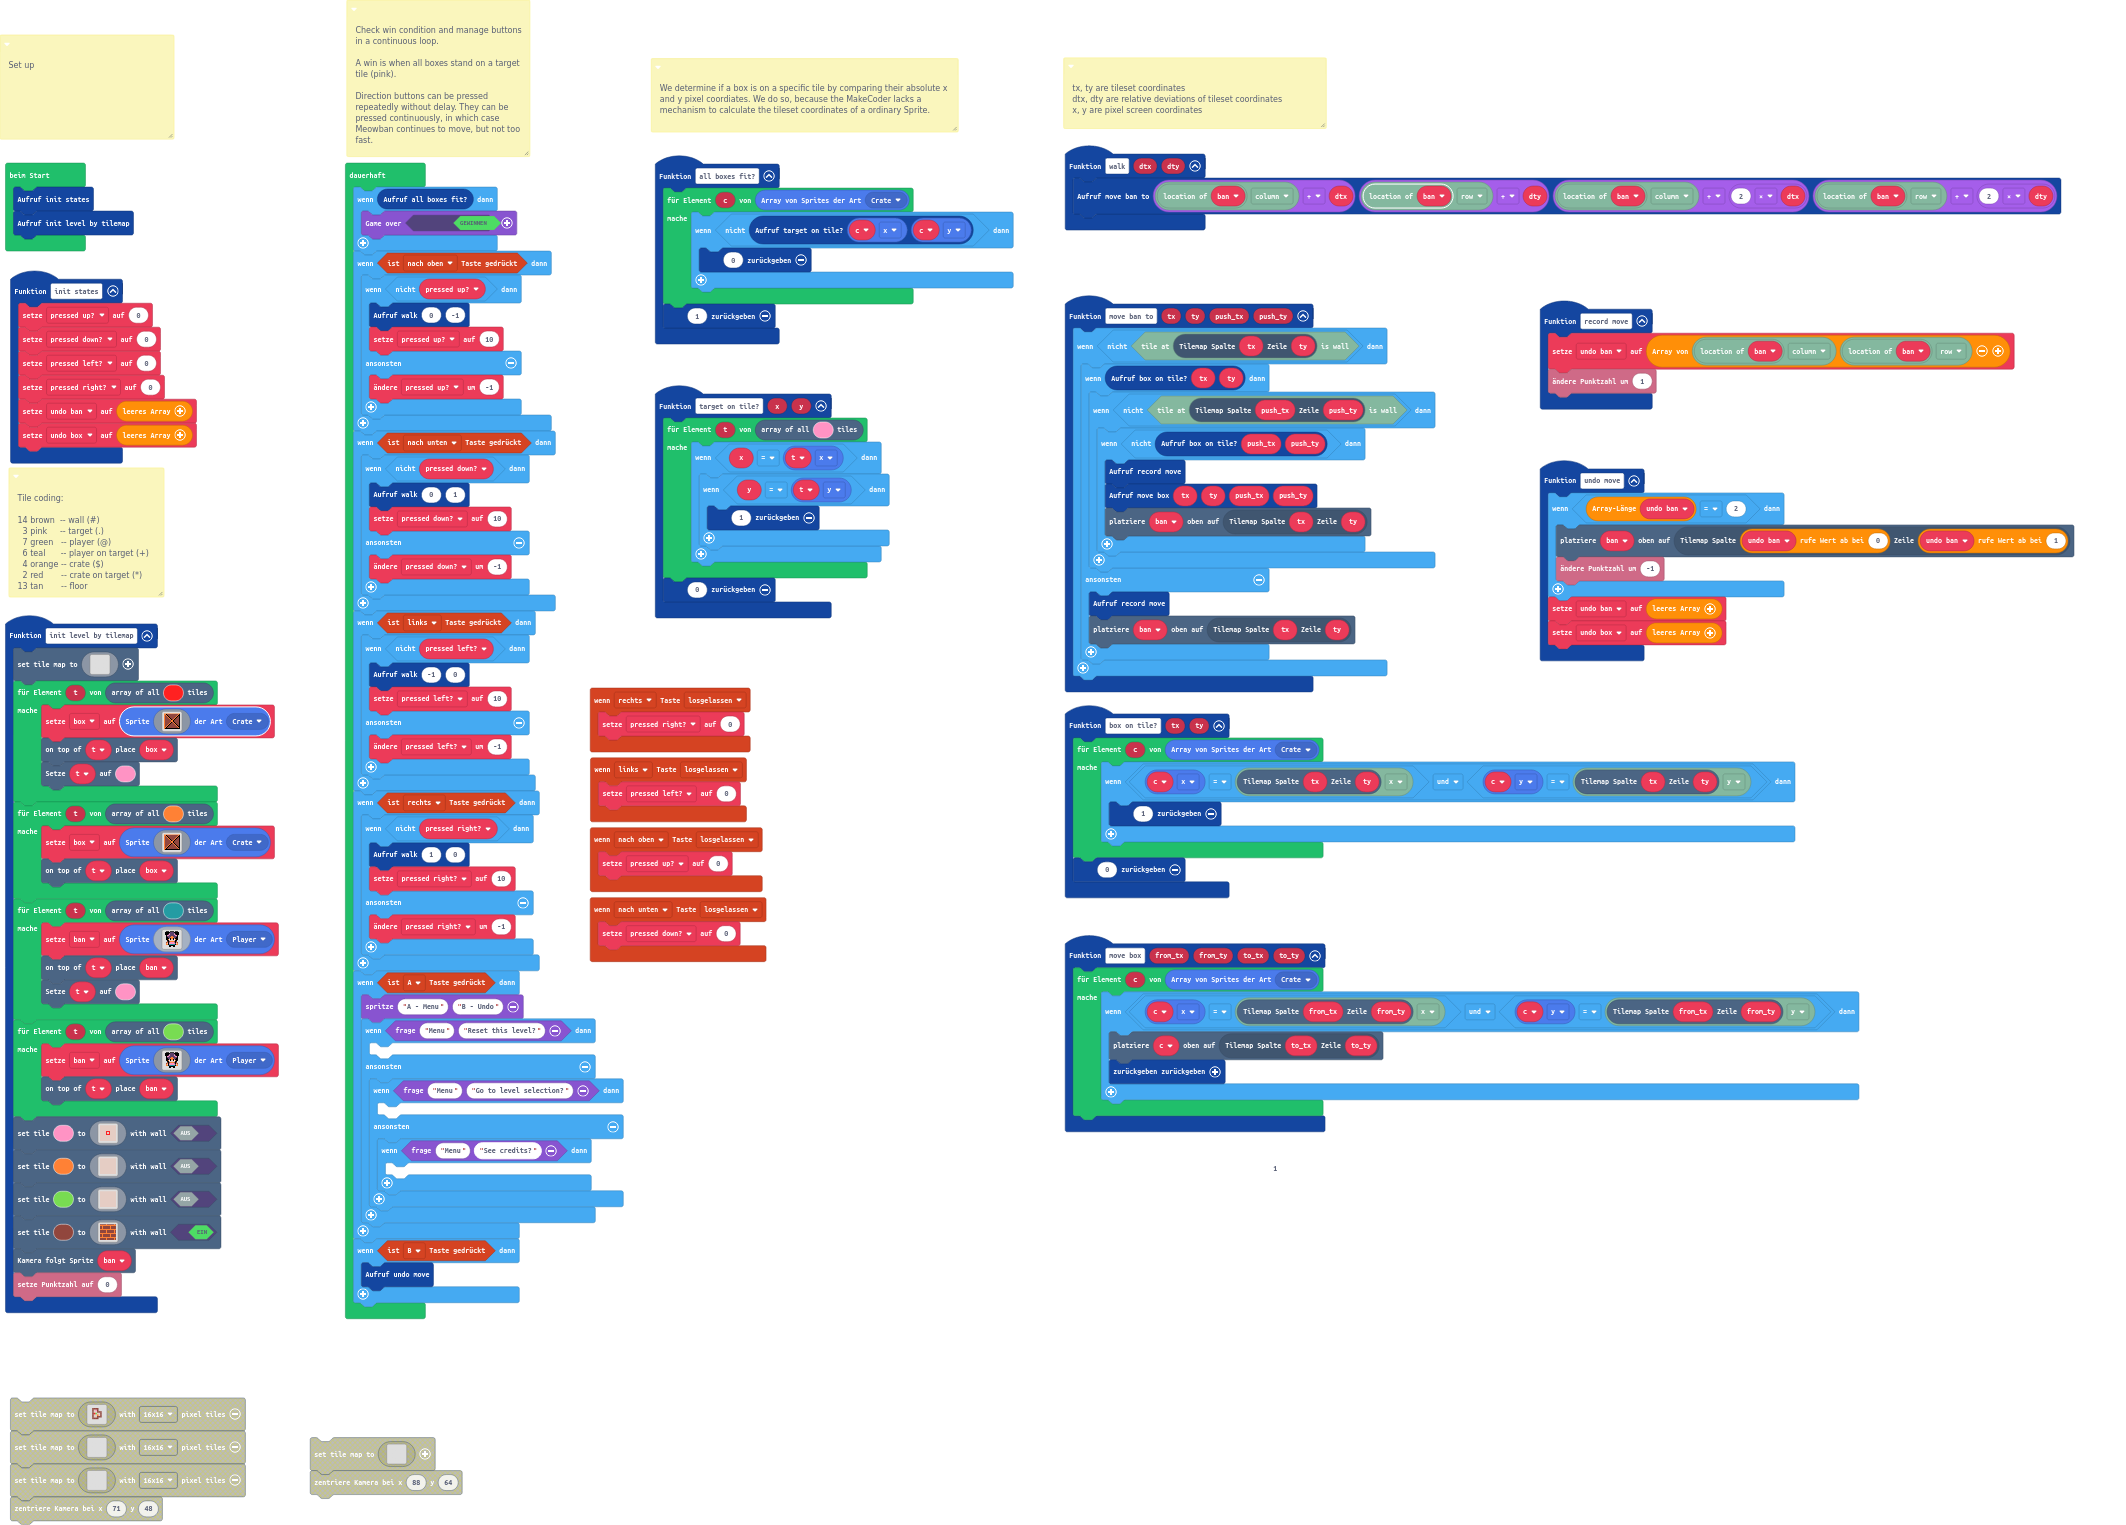
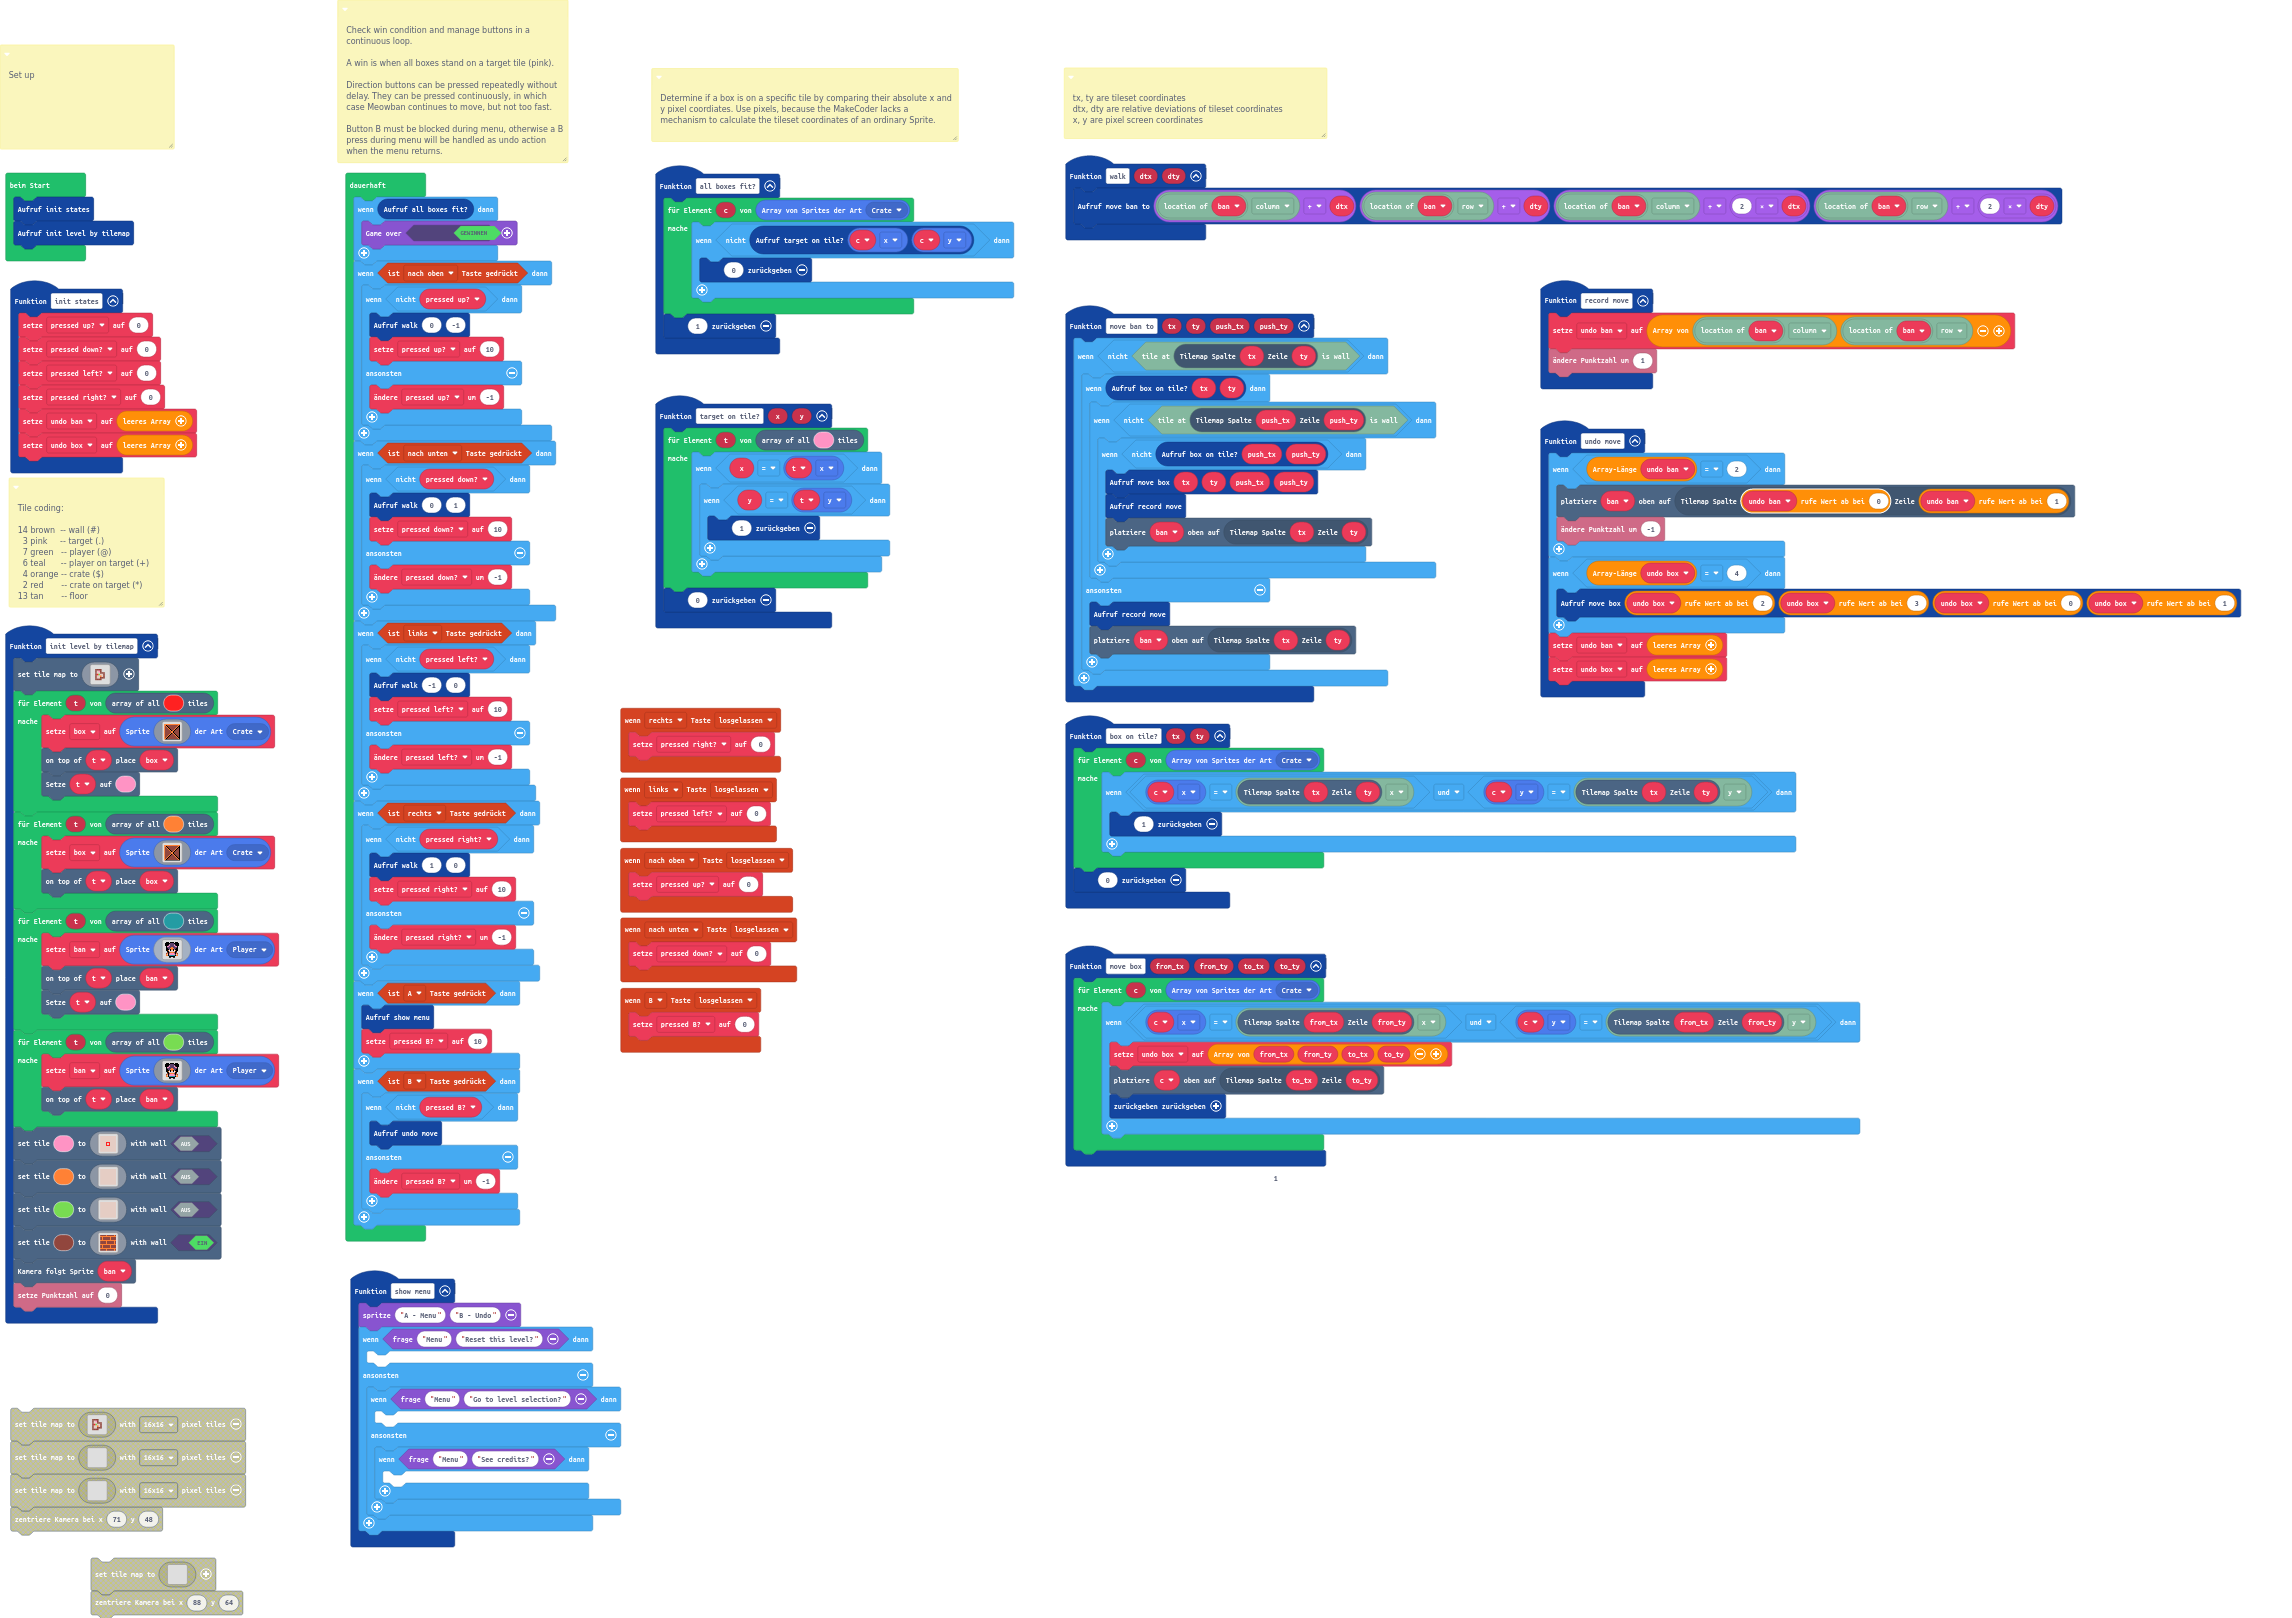
Undo and menu working, but MakeCode messed up the inactive level maps

diff --git a/main.ts b/main.ts
@@ -2,10 +2,19 @@ namespace SpriteKind {
     export const Crate = SpriteKind.create()
 }
 /**
+ * Check win condition and manage buttons in a continuous loop.
+ * 
+ * A win is when all boxes stand on a target tile (pink).
+ * 
+ * Direction buttons can be pressed repeatedly without delay. They can be pressed continuously, in which case Meowban continues to move, but not too fast.
+ * 
+ * Button B must be blocked during menu, otherwise a B press during menu will be handled as undo action when the menu returns.
+ */
+/**
  * Set up
  */
 /**
- * We determine if a box is on a specific tile by comparing their absolute x and y pixel coordiates. We do so, because the MakeCoder lacks a mechanism to calculate the tileset coordinates of a ordinary Sprite.
+ * Determine if a box is on a specific tile by comparing their absolute x and y pixel coordiates. Use pixels, because the MakeCoder lacks a mechanism to calculate the tileset coordinates of an ordinary Sprite.
  */
 /**
  * tx, ty are tileset coordinates
@@ -45,6 +54,20 @@ function init_states () {
     undo_ban = []
     undo_box = []
 }
+function show_menu () {
+    game.splash("A - Menu", "B - Undo")
+    if (game.ask("Menu", "Reset this level?")) {
+    	
+    } else {
+        if (game.ask("Menu", "Go to level selection?")) {
+        	
+        } else {
+            if (game.ask("Menu", "See credits?")) {
+            	
+            }
+        }
+    }
+}
 function walk (dtx: number, dty: number) {
     move_ban_to(tiles.locationXY(tiles.locationOfSprite(ban), tiles.XY.column) + dtx, tiles.locationXY(tiles.locationOfSprite(ban), tiles.XY.row) + dty, tiles.locationXY(tiles.locationOfSprite(ban), tiles.XY.column) + 2 * dtx, tiles.locationXY(tiles.locationOfSprite(ban), tiles.XY.row) + 2 * dty)
 }
@@ -61,14 +84,13 @@ function all_boxes_fit () {
 }
 function init_level_by_tilemap () {
     scene.setTileMap(img`
-        . . . . . . . . . . 
-        . . . . . . . . . . 
-        . . . . . . . . . . 
-        . . . . . . . . . . 
-        . . . . . . . . . . 
-        . . . . . . . . . . 
-        . . . . . . . . . . 
-        . . . . . . . . . . 
+        . . e e e e . . . . 
+        . . e d 3 e . . . . 
+        . . e d d e e e . . 
+        . . e 2 7 d d e . . 
+        . . e d d 4 d e . . 
+        . . e d d e e e . . 
+        . . e e e e . . . . 
         `)
     for (let t of scene.getTilesByType(2)) {
         box = sprites.create(img`
@@ -236,16 +258,22 @@ function undo_move () {
         tiles.placeOnTile(ban, tiles.getTileLocation(undo_ban[0], undo_ban[1]))
         info.changeScoreBy(-1)
     }
+    if (undo_box.length == 4) {
+        move_box(undo_box[2], undo_box[3], undo_box[0], undo_box[1])
+    }
     undo_ban = []
     undo_box = []
 }
+controller.B.onEvent(ControllerButtonEvent.Released, function () {
+    pressed_B = 0
+})
 function move_ban_to (tx: number, ty: number, push_tx: number, push_ty: number) {
     if (!(tiles.tileIsWall(tiles.getTileLocation(tx, ty)))) {
         if (box_on_tile(tx, ty)) {
             if (!(tiles.tileIsWall(tiles.getTileLocation(push_tx, push_ty)))) {
                 if (!(box_on_tile(push_tx, push_ty))) {
-                    record_move()
                     move_box(tx, ty, push_tx, push_ty)
+                    record_move()
                     tiles.placeOnTile(ban, tiles.getTileLocation(tx, ty))
                 }
             }
@@ -269,6 +297,7 @@ controller.right.onEvent(ControllerButtonEvent.Released, function () {
 function move_box (from_tx: number, from_ty: number, to_tx: number, to_ty: number) {
     for (let c of sprites.allOfKind(SpriteKind.Crate)) {
         if (c.x == tiles.locationXY(tiles.getTileLocation(from_tx, from_ty), tiles.XY.x) && c.y == tiles.locationXY(tiles.getTileLocation(from_tx, from_ty), tiles.XY.y)) {
+            undo_box = [from_tx, from_ty, to_tx, to_ty]
             tiles.placeOnTile(c, tiles.getTileLocation(to_tx, to_ty))
             return
         }
@@ -288,23 +317,17 @@ function record_move () {
     undo_ban = [tiles.locationXY(tiles.locationOfSprite(ban), tiles.XY.column), tiles.locationXY(tiles.locationOfSprite(ban), tiles.XY.row)]
     info.changeScoreBy(1)
 }
+let pressed_B = 0
 let box: Sprite = null
 let ban: Sprite = null
 let undo_box: number[] = []
 let undo_ban: number[] = []
-let pressed_right: number = []
-let pressed_left: number = []
-let pressed_up: number = []
-let pressed_down: number = []
+let pressed_right = 0
+let pressed_left = 0
+let pressed_up = 0
+let pressed_down = 0
 init_states()
 init_level_by_tilemap()
-/**
- * Check win condition and manage buttons in a continuous loop.
- * 
- * A win is when all boxes stand on a target tile (pink).
- * 
- * Direction buttons can be pressed repeatedly without delay. They can be pressed continuously, in which case Meowban continues to move, but not too fast.
- */
 forever(function () {
     if (all_boxes_fit()) {
         game.over(true)
@@ -342,20 +365,14 @@ forever(function () {
         }
     }
     if (controller.A.isPressed()) {
-        game.splash("A - Menu", "B - Undo")
-        if (game.ask("Menu", "Reset this level?")) {
-        	
-        } else {
-            if (game.ask("Menu", "Go to level selection?")) {
-            	
-            } else {
-                if (game.ask("Menu", "See credits?")) {
-                	
-                }
-            }
-        }
+        show_menu()
+        pressed_B = 10
     }
     if (controller.B.isPressed()) {
-        undo_move()
+        if (!(pressed_B)) {
+            undo_move()
+        } else {
+            pressed_B += -1
+        }
     }
 })

diff --git a/images.g.ts b/images.g.ts
@@ -196,6 +196,15 @@ d d d d d d d d d d d d d d d d
 . . . . . . . . . . 
 . . . . . . . . . . 
 `;
+            case "image11":return img`
+. . e e e e . . . . 
+. . e d 3 e . . . . 
+. . e d d e e e . . 
+. . e 2 7 d d e . . 
+. . e d d 4 d e . . 
+. . e d d e e e . . 
+. . e e e e . . . . 
+`;
         }
         return null;
     })
